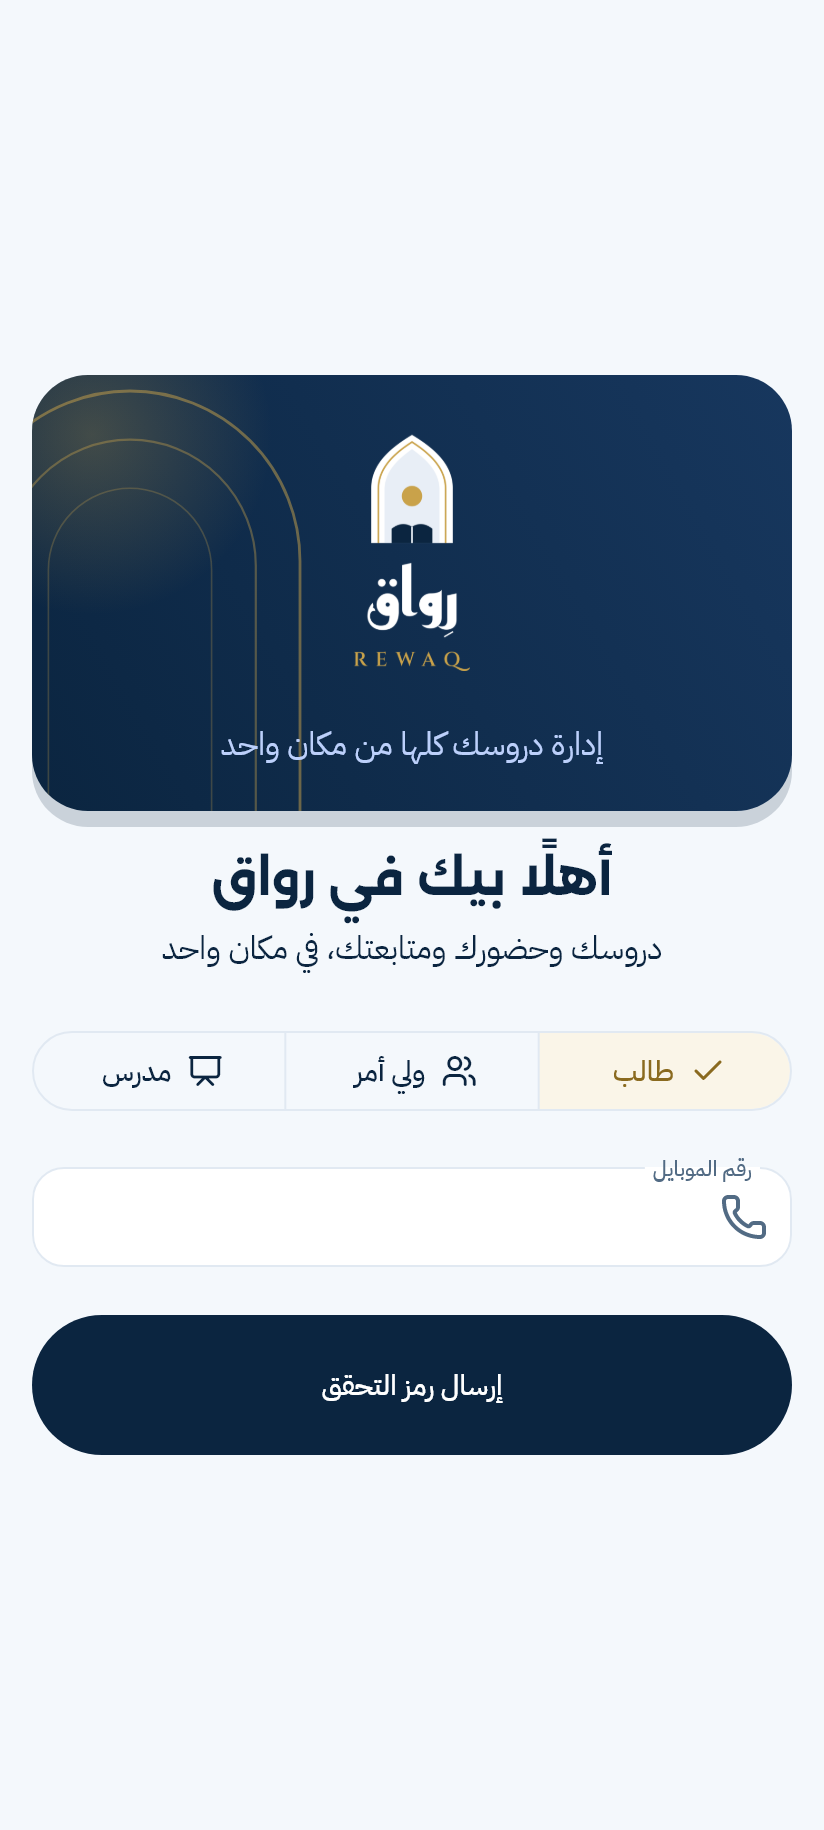
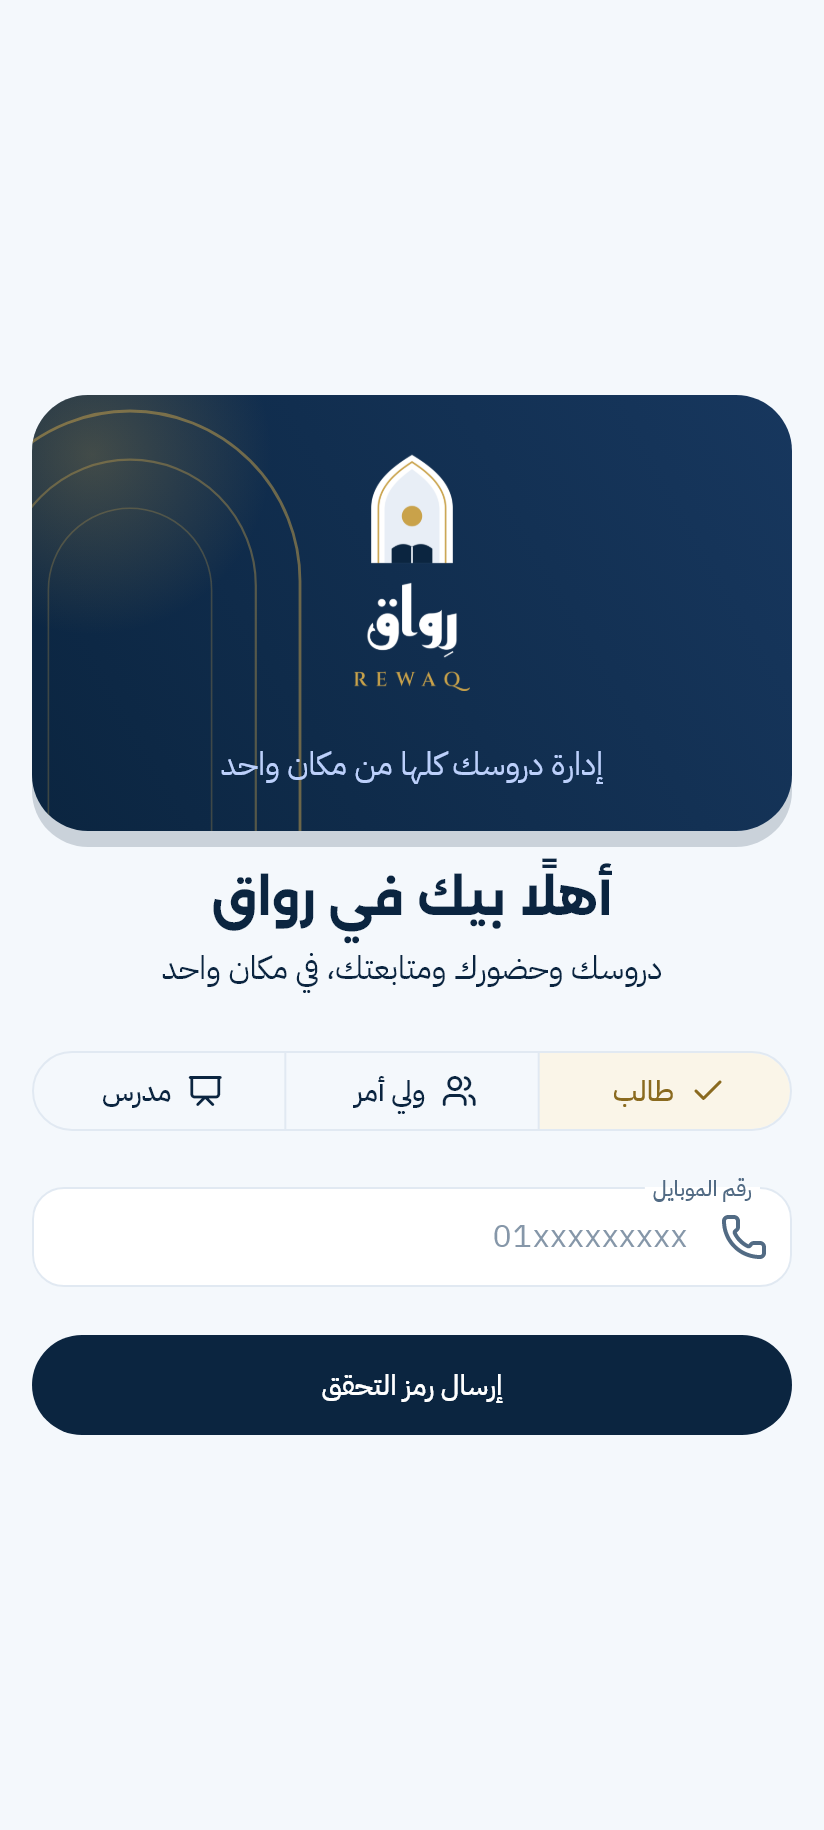
Placeholders on every form field, tidier login button, version 1.8.1

diff --git a/lib/features/teacher_notifications.dart b/lib/features/teacher_notifications.dart
@@ -250,7 +250,10 @@ class _TeacherNotificationsPageState extends State<TeacherNotificationsPage> {
               icon: const Icon(AppIcons.arrowDownward),
               initialValue: groupId,
               isExpanded: true,
-              decoration: const InputDecoration(labelText: 'المجموعة'),
+              decoration: const InputDecoration(
+                labelText: 'المجموعة',
+                hintText: 'اكتب هنا…',
+              ),
               items: groups
                   .map(
                     (g) => DropdownMenuItem(
@@ -266,6 +269,7 @@ class _TeacherNotificationsPageState extends State<TeacherNotificationsPage> {
               controller: search,
               decoration: InputDecoration(
                 labelText: 'ابحث باسم الطالب أو الكود',
+                hintText: 'اكتب الاسم',
                 suffixIcon: IconButton(
                   onPressed: () => loadStudents(),
                   icon: const Icon(AppIcons.searchRounded),
@@ -313,7 +317,10 @@ class _TeacherNotificationsPageState extends State<TeacherNotificationsPage> {
           DropdownButtonFormField<String>(
             icon: const Icon(AppIcons.arrowDownward),
             initialValue: audience,
-            decoration: const InputDecoration(labelText: 'يوصل لمين؟'),
+            decoration: const InputDecoration(
+              labelText: 'يوصل لمين؟',
+              hintText: 'اكتب هنا…',
+            ),
             items: const [
               DropdownMenuItem(
                 value: 'Both',
@@ -349,7 +356,10 @@ class _TeacherNotificationsPageState extends State<TeacherNotificationsPage> {
             maxLength: 1500,
             minLines: 4,
             maxLines: 7,
-            decoration: const InputDecoration(labelText: 'نص الرسالة'),
+            decoration: const InputDecoration(
+              labelText: 'نص الرسالة',
+              hintText: 'اكتب هنا…',
+            ),
           ),
           if (imageBytes != null) ...[
             ClipRRect(

diff --git a/lib/features/courses.dart b/lib/features/courses.dart
@@ -717,7 +717,10 @@ class _NewLessonPageState extends State<NewLessonPage> {
         TextField(
           maxLength: 150,
           controller: title,
-          decoration: const InputDecoration(labelText: 'العنوان'),
+          decoration: const InputDecoration(
+            labelText: 'العنوان',
+            hintText: 'اكتب عنوانًا واضحًا',
+          ),
         ),
         const SizedBox(height: 16),
         DropdownButtonFormField<String>(
@@ -740,12 +743,18 @@ class _NewLessonPageState extends State<NewLessonPage> {
             controller: body,
             minLines: 3,
             maxLines: 8,
-            decoration: const InputDecoration(labelText: 'المحتوى والوصف'),
+            decoration: const InputDecoration(
+              labelText: 'المحتوى والوصف',
+              hintText: 'اكتب هنا…',
+            ),
           ),
         if (type == 'Video')
           TextField(
             controller: url,
-            decoration: const InputDecoration(labelText: 'رابط MP4 أو HLS'),
+            decoration: const InputDecoration(
+              labelText: 'رابط MP4 أو HLS',
+              hintText: 'https://',
+            ),
           ),
         SwitchListTile.adaptive(
           contentPadding: EdgeInsets.zero,
@@ -760,6 +769,7 @@ class _NewLessonPageState extends State<NewLessonPage> {
             keyboardType: TextInputType.number,
             decoration: const InputDecoration(
               labelText: 'مدة الفيديو بالثواني',
+              hintText: 'مثال: 900',
               helperText: 'تُستخدم لحساب إكمال الدرس بدقة',
             ),
           ),

diff --git a/lib/features/login.dart b/lib/features/login.dart
@@ -267,6 +267,7 @@ class _LoginPageState extends State<LoginPage> {
                     autofillHints: const [AutofillHints.telephoneNumber],
                     decoration: const InputDecoration(
                       labelText: 'رقم الموبايل',
+                      hintText: '01xxxxxxxxx',
                       counterText: '',
                       prefixIcon: Icon(AppIcons.phoneOutlined),
                     ),
@@ -282,6 +283,7 @@ class _LoginPageState extends State<LoginPage> {
                       autofillHints: const [AutofillHints.password],
                       decoration: const InputDecoration(
                         labelText: 'كلمة المرور',
+                        hintText: 'اكتب كلمة المرور',
                         prefixIcon: Icon(AppIcons.lockOutline),
                       ),
                       validator: (v) =>
@@ -354,7 +356,7 @@ class _LoginPageState extends State<LoginPage> {
                     FilledButton(
                       onPressed: busy ? null : submit,
                       child: Padding(
-                        padding: const EdgeInsets.all(12),
+                        padding: const EdgeInsets.symmetric(vertical: 2),
                         child: busy
                             ? const SizedBox(
                                 height: 20,

diff --git a/lib/features/authoring.dart b/lib/features/authoring.dart
@@ -285,7 +285,10 @@ class _NewQuizPageState extends State<NewQuizPage> {
             children: [
               TextField(
                 controller: title,
-                decoration: const InputDecoration(labelText: 'عنوان الامتحان'),
+                decoration: const InputDecoration(
+                  labelText: 'عنوان الامتحان',
+                  hintText: 'اكتب عنوانًا واضحًا',
+                ),
               ),
               const SizedBox(height: 12),
               Row(
@@ -296,6 +299,7 @@ class _NewQuizPageState extends State<NewQuizPage> {
                       keyboardType: TextInputType.number,
                       decoration: const InputDecoration(
                         labelText: 'المدة بالدقائق',
+                        hintText: 'مثال: 60',
                       ),
                     ),
                   ),
@@ -306,6 +310,7 @@ class _NewQuizPageState extends State<NewQuizPage> {
                       keyboardType: TextInputType.number,
                       decoration: const InputDecoration(
                         labelText: 'عدد المحاولات',
+                        hintText: 'مثال: 3',
                       ),
                     ),
                   ),

diff --git a/lib/features/community.dart b/lib/features/community.dart
@@ -177,6 +177,7 @@ class _NewConversationPageState extends State<NewConversationPage> {
                     maxLength: 200,
                     decoration: const InputDecoration(
                       labelText: 'موضوع المحادثة',
+                      hintText: 'مثال: مراجعة الفصل الأول',
                     ),
                     validator: (v) => v == null || v.trim().isEmpty
                         ? 'اكتب موضوع المحادثة'
@@ -521,7 +522,10 @@ class _AssignmentPageState extends State<AssignmentPage> {
                       submission?['status'] != 'Graded',
                   minLines: 6,
                   maxLines: 12,
-                  decoration: const InputDecoration(labelText: 'حل الواجب'),
+                  decoration: const InputDecoration(
+                    labelText: 'حل الواجب',
+                    hintText: 'اكتب إجابتك هنا',
+                  ),
                 ),
                 const SizedBox(height: 16),
                 FilledButton(

diff --git a/lib/features/lesson_discussion.dart b/lib/features/lesson_discussion.dart
@@ -137,6 +137,7 @@ class _LessonDiscussionState extends State<LessonDiscussion> {
                         maxLength: 170,
                         decoration: const InputDecoration(
                           labelText: 'عنوان السؤال',
+                          hintText: 'اكتب عنوانًا واضحًا',
                         ),
                         validator: (v) => v?.trim().isNotEmpty == true
                             ? null
@@ -455,7 +456,10 @@ class _LessonQuestionPageState extends State<LessonQuestionPage> {
               maxLength: 5000,
               minLines: 2,
               maxLines: 5,
-              decoration: const InputDecoration(labelText: 'أضف ردك'),
+              decoration: const InputDecoration(
+                labelText: 'أضف ردك',
+                hintText: 'اكتب هنا…',
+              ),
             ),
             FilledButton(
               onPressed: busy

diff --git a/lib/features/teaching.dart b/lib/features/teaching.dart
@@ -609,13 +609,19 @@ class _NewSessionPageState extends State<NewSessionPage> {
       children: [
         TextField(
           controller: topic,
-          decoration: const InputDecoration(labelText: 'موضوع الحصة'),
+          decoration: const InputDecoration(
+            labelText: 'موضوع الحصة',
+            hintText: 'مثال: مراجعة الفصل الأول',
+          ),
         ),
         const SizedBox(height: 16),
         TextField(
           controller: minutes,
           keyboardType: TextInputType.number,
-          decoration: const InputDecoration(labelText: 'المدة بالدقائق'),
+          decoration: const InputDecoration(
+            labelText: 'المدة بالدقائق',
+            hintText: 'مثال: 60',
+          ),
         ),
         ListTile(
           title: Text(

diff --git a/lib/features/scoped_chat.dart b/lib/features/scoped_chat.dart
@@ -431,7 +431,10 @@ class _SessionChatEditorState extends State<SessionChatEditor> {
               controller: title,
               enabled: !busy,
               maxLength: 150,
-              decoration: const InputDecoration(labelText: 'اسم الجروب'),
+              decoration: const InputDecoration(
+                labelText: 'اسم الجروب',
+                hintText: 'اكتب الاسم',
+              ),
               validator: (v) => (v?.trim().length ?? 0) < 3
                   ? 'اكتب اسمًا من ٣ أحرف على الأقل'
                   : null,

diff --git a/lib/features/excuses.dart b/lib/features/excuses.dart
@@ -266,7 +266,10 @@ class _ExcuseEditorState extends State<ExcuseEditor> {
               maxLength: 500,
               minLines: 3,
               maxLines: 6,
-              decoration: const InputDecoration(labelText: 'سبب الغياب'),
+              decoration: const InputDecoration(
+                labelText: 'سبب الغياب',
+                hintText: 'اكتب السبب باختصار',
+              ),
               validator: (v) => (v?.trim().length ?? 0) < 5
                   ? 'اكتب سببًا من ٥ أحرف على الأقل'
                   : null,

diff --git a/lib/features/quiz.dart b/lib/features/quiz.dart
@@ -339,7 +339,10 @@ class _QuestionEditorState extends State<QuestionEditor> {
                 controller: text,
                 enabled: widget.enabled,
                 maxLines: type == 'ShortAnswer' ? 2 : 5,
-                decoration: const InputDecoration(labelText: 'إجابتك'),
+                decoration: const InputDecoration(
+                  labelText: 'إجابتك',
+                  hintText: 'اكتب إجابتك هنا',
+                ),
               ),
               TextButton(
                 onPressed: widget.enabled

diff --git a/lib/core/widgets.dart b/lib/core/widgets.dart
@@ -506,7 +506,10 @@ Future<String?> requestReason(
           minLines: 2,
           maxLines: 4,
           maxLength: 500,
-          decoration: const InputDecoration(labelText: 'السبب'),
+          decoration: const InputDecoration(
+            labelText: 'السبب',
+            hintText: 'اكتب السبب باختصار',
+          ),
           validator: (v) => (v?.trim().length ?? 0) < 5
               ? 'اكتب سببًا من ٥ أحرف على الأقل'
               : null,

diff --git a/lib/features/payments.dart b/lib/features/payments.dart
@@ -582,6 +582,7 @@ class _CheckoutPageState extends State<CheckoutPage> {
                     enabled: !busy,
                     decoration: const InputDecoration(
                       labelText: 'كود خصم — اختياري',
+                      hintText: 'مثال: RAMADAN10',
                     ),
                     onChanged: (_) => key = _key(),
                   ),
